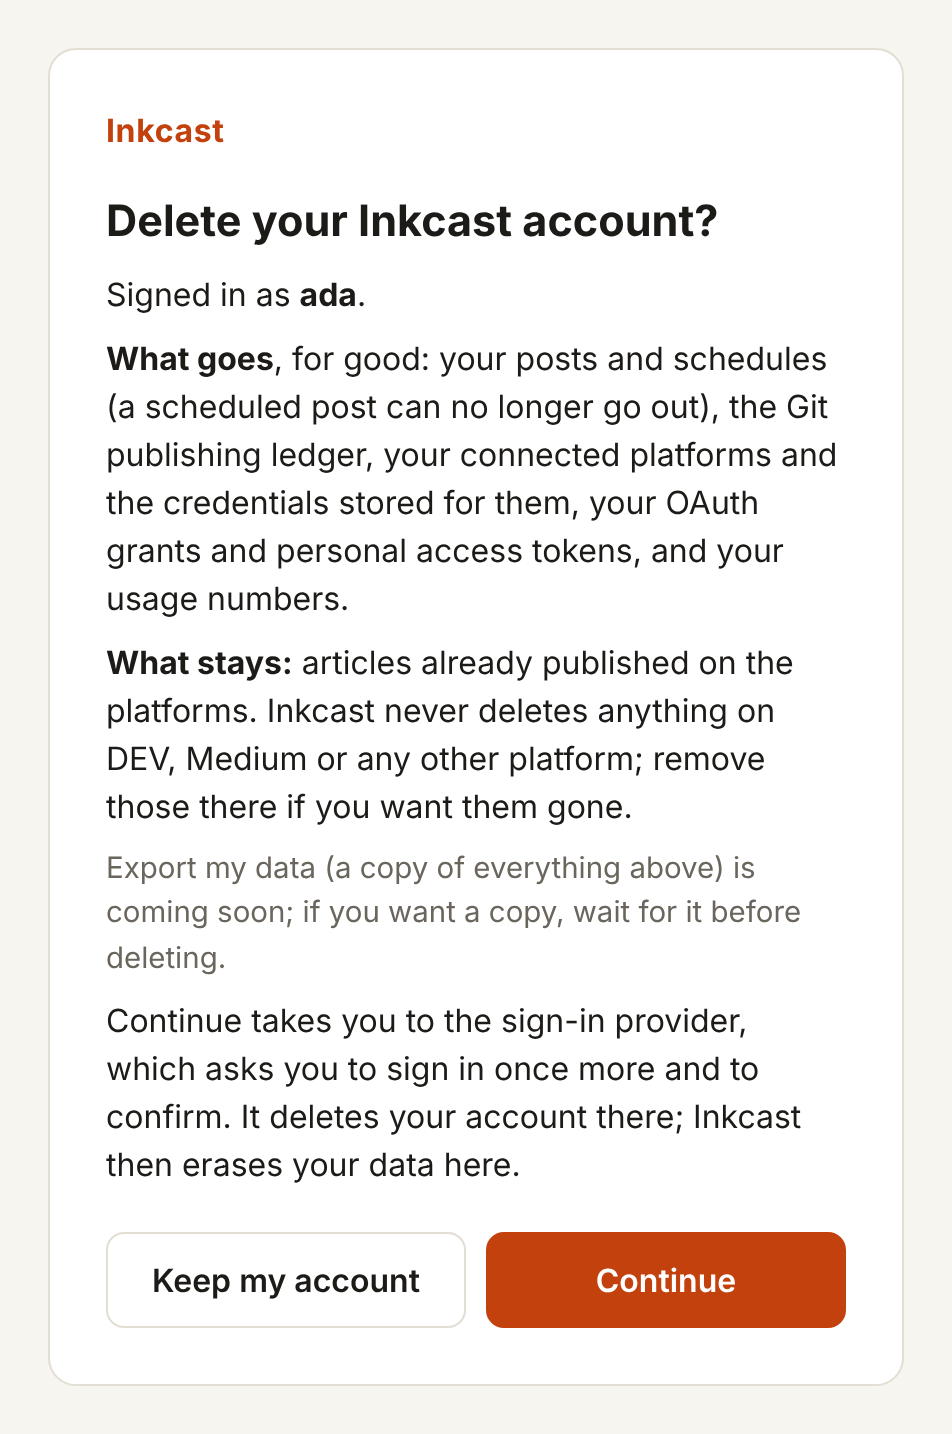
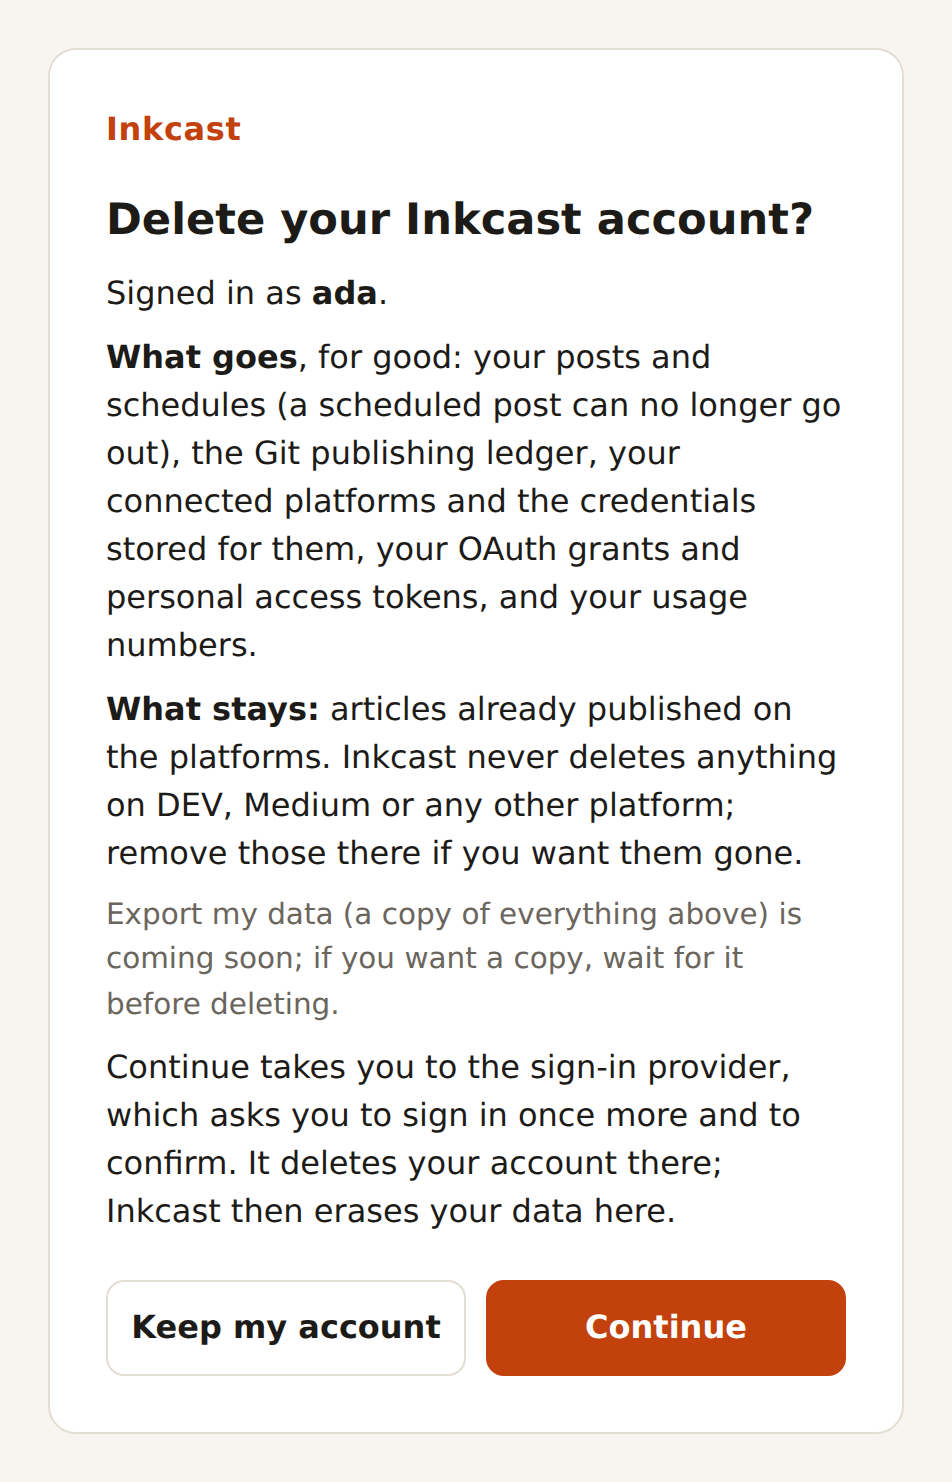
Screenshots: refreshed from main's walkthrough (e7580fa) (#78)

Changed region(s): [[0.0914, 0.0614, 0.8834, 0.8285], [0.5179, 0.8591, 0.8834, 0.9205], [0.1218, 0.8591, 0.4569, 0.9205]]

diff --git a/docs/screenshots.md b/docs/screenshots.md
@@ -2,7 +2,7 @@
 
 A few pictures of Inkcast in use, in the order a person meets them. They come from the [end-to-end walkthrough](walkthrough.md), which drives the whole journey for real (an MCP client, a browser, the REST API) and checks every step; the panels are labelled MCP tool calls, not any client's interface.
 
-From the run at commit `ca5c736f2da0` on 2026-10-22. The full walkthrough, every step pictured, is on the [`ci-captures`](https://github.com/inkcasthq/inkcast/tree/ci-captures/walkthrough/latest) branch, rebuilt by CI on every merge. Refresh this page with `python3 scripts/docs/showcase.py --from <walk output>`.
+From the run at commit `e7580fa73c1e` on 2026-10-22. The full walkthrough, every step pictured, is on the [`ci-captures`](https://github.com/inkcasthq/inkcast/tree/ci-captures/walkthrough/latest) branch, rebuilt by CI on every merge. Refresh this page with `python3 scripts/docs/showcase.py --from <walk output>`.
 
 ## 1. Add Inkcast to your AI assistant
 
